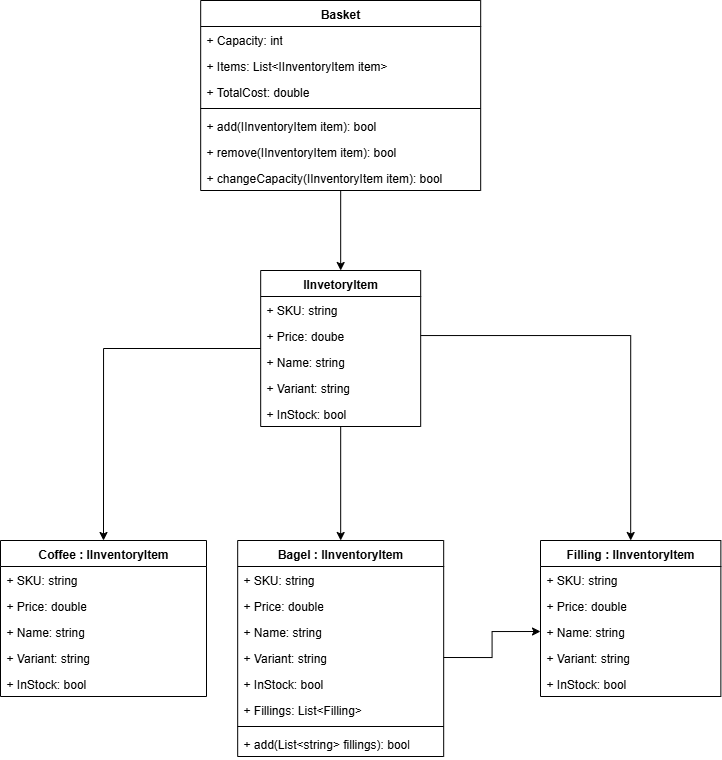
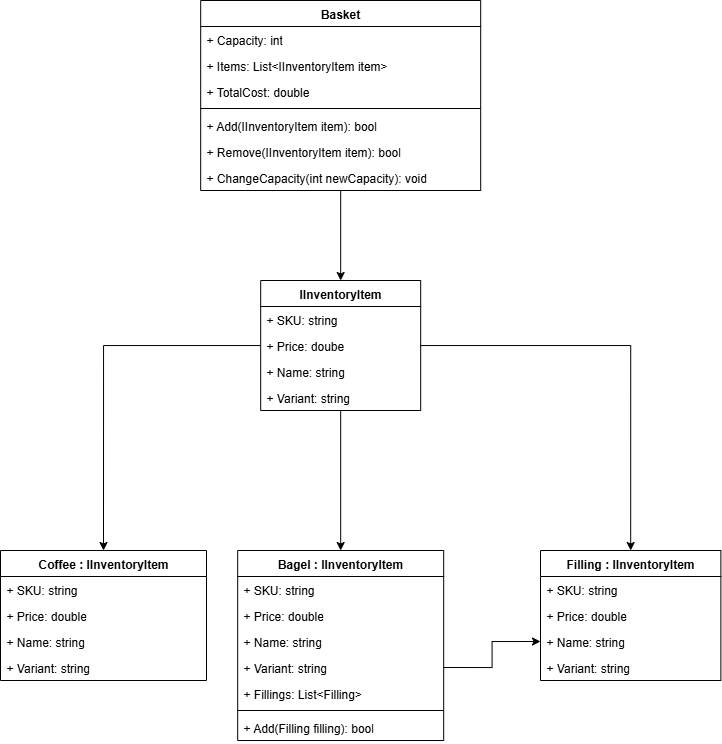
Passed tests. Added 'AddFillingTests' and domain-model.md (previously uploaded class diagram 'BagelDiagram.png', but forgot to add the domain-model.md file)

diff --git a/exercise.main/Basket.cs b/exercise.main/Basket.cs
@@ -30,27 +30,48 @@ namespace exercise.main
         private int _capacity = 5;
         private List<IInventoryItem> _items = new List<IInventoryItem>();
 
-        private bool _confirmInStock(IInventoryItem item)
+        private bool _confirmInStock(IInventoryItem diff_item)
         {
-            throw new NotImplementedException();
+            if (_inventoryItems.ContainsKey(diff_item.SKU))
+            {
+                IInventoryItem ref_item = _inventoryItems[diff_item.SKU];
+                if (ref_item.SKU == diff_item.SKU &&
+                    ref_item.Price == diff_item.Price &&
+                    ref_item.Name == diff_item.Name &&
+                    ref_item.Variant == diff_item.Variant)
+                {
+                    return true;
+                }
+            }
+            return false;
         }
 
         public bool Add(IInventoryItem item)
         {
-            throw new NotImplementedException();
+            if (_items.Count >= _capacity)
+            {
+                Console.WriteLine("Basket is full!");
+                return false;
+            }
+            if (_confirmInStock(item))
+            {
+                _items.Add(item);
+                return true;
+            }
+            return false;
         }
 
         public bool Remove(IInventoryItem item)
         {
-            throw new NotImplementedException();
+            return _items.Remove(item);
         }
 
         public void ChangeCapacity(int newCapacity)
         {
-            throw new NotImplementedException();
+            _capacity = newCapacity;
         }
 
-        public double TotalCost { get { return _items.Sum(i => i.Price); } }
+        public double TotalCost { get { return _items.Sum(item => item.Price); } }
         public List<IInventoryItem> Items { get { return _items; } }
         public int Capacity { get { return _capacity; } }
     }

diff --git a/exercise.tests/BasketTests.cs b/exercise.tests/BasketTests.cs
@@ -30,13 +30,15 @@ public class Tests
         // Arrange
         Basket basket = new Basket();
         Bagel bagel = new Bagel(sku: "BGLO", price: 0.49, name: "Bagel", variant: "Onion");
+        Bagel bagel2 = new Bagel(sku: "BGLP", price: 0.39, name: "Bagel", variant: "Plain");
 
         // Act
-        basket.ChangeCapacity(0);
+        basket.ChangeCapacity(1);
         basket.Add(bagel);
+        basket.Add(bagel2);
 
         // Assert
-        Assert.That(basket.Items.Count, Is.EqualTo(0));
+        Assert.That(basket.Items.Count, Is.EqualTo(1));
     }
 
     [Test]
@@ -89,6 +91,8 @@ public class Tests
         Basket basket = new Basket();
         Bagel bagel = new Bagel(sku: "BGLO", price: 0.49, name: "Bagel", variant: "Onion");
         Bagel bagel2 = new Bagel(sku: "BGLP", price: 0.39, name: "Bagel", variant: "Plain");
+        
+        Filling filling = new Filling(sku: "FILB", price: 0.12, name: "Filling", variant: "Bacon");
 
         // Act
         basket.Add(bagel);
@@ -112,5 +116,20 @@ public class Tests
 
         // Assert
         Assert.That(result1 == true && result2 == false);
+    }
+
+    [Test]
+    public void AddFillingTests()
+    {
+        // Arrange
+        Basket basket = new Basket();
+        Bagel bagel = new Bagel(sku: "BGLO", price: 0.49, name: "Bagel", variant: "Onion");
+        Filling filling = new Filling(sku: "FILB", price: 0.12, name: "Filling", variant: "Bacon");
+
+        // Act
+        bagel.Add(filling);
+
+        // Assert
+        Assert.That(bagel.Fillings.Count, Is.EqualTo(1));
     }
 }

diff --git a/exercise.main/Items/Bagel.cs b/exercise.main/Items/Bagel.cs
@@ -8,6 +8,7 @@ namespace exercise.main.Items
 {
     public class Bagel : IInventoryItem
     {
+        private double _totalPrice;
         public string SKU { get; set; }
         public double Price { get; set; }
         public string Name { get; set; }
@@ -29,6 +30,7 @@ namespace exercise.main.Items
         public void Add(Filling filling)
         {
             Fillings.Add(filling);
+            Price += filling.Price;
         }
     }
 }

diff --git a/domain-model.md b/domain-model.md
@@ -1,0 +1,23 @@
+| Classes			| Methods/Properties                                | Scenario							| Outputs          |
+|-------------------|---------------------------------------------------|-----------------------------------|------------------
+|Basket.cs			|Add(IInventoryItem item)						|Add an item to the basket			|bool
+|Basket.cs			|Remove(IInventoryItem item)					|Remove an item from the basket		|bool
+|Basket.cs			|ChangeCapacity(int TaskId)						|Change status for a task			|void
+|IInventoryItem.cs	|string SKU										|SKU propety for all item types		|string
+|IInventoryItem.cs	|double Price									|Price propety for all item types	|double
+|IInventoryItem.cs	|string Name									|Name propety for all item types	|string
+|IInventoryItem.cs	|string variant									|Variant propety for all item types	|string
+|Coffee.cs			|string SKU										|SKU propety for all item types		|string
+|Coffee.cs			|double Price									|Price propety for all item types	|double
+|Coffee.cs			|string Name									|Name propety for all item types	|string
+|Coffee.cs			|string variant									|Variant propety for all item types	|string
+|Filling.cs			|string SKU										|SKU propety for all item types		|string
+|Filling.cs			|double Price									|Price propety for all item types	|double
+|Filling.cs			|string Name									|Name propety for all item types	|string
+|Filling.cs			|string variant									|Variant propety for all item types	|string
+|Bagel.cs			|string SKU										|SKU propety for all item types		|string
+|Bagel.cs			|double Price									|Price propety for all item types	|double
+|Bagel.cs			|string Name									|Name propety for all item types	|string
+|Bagel.cs			|string variant									|Variant propety for all item types	|string
+|Bagel.cs			|List\<Filling\> Fillings						|List of fillings for each bagel	|List\<Filling\>
+|Bagel.cs			|Add(Filling filling)							|Add fillings to each bagel order	|bool
